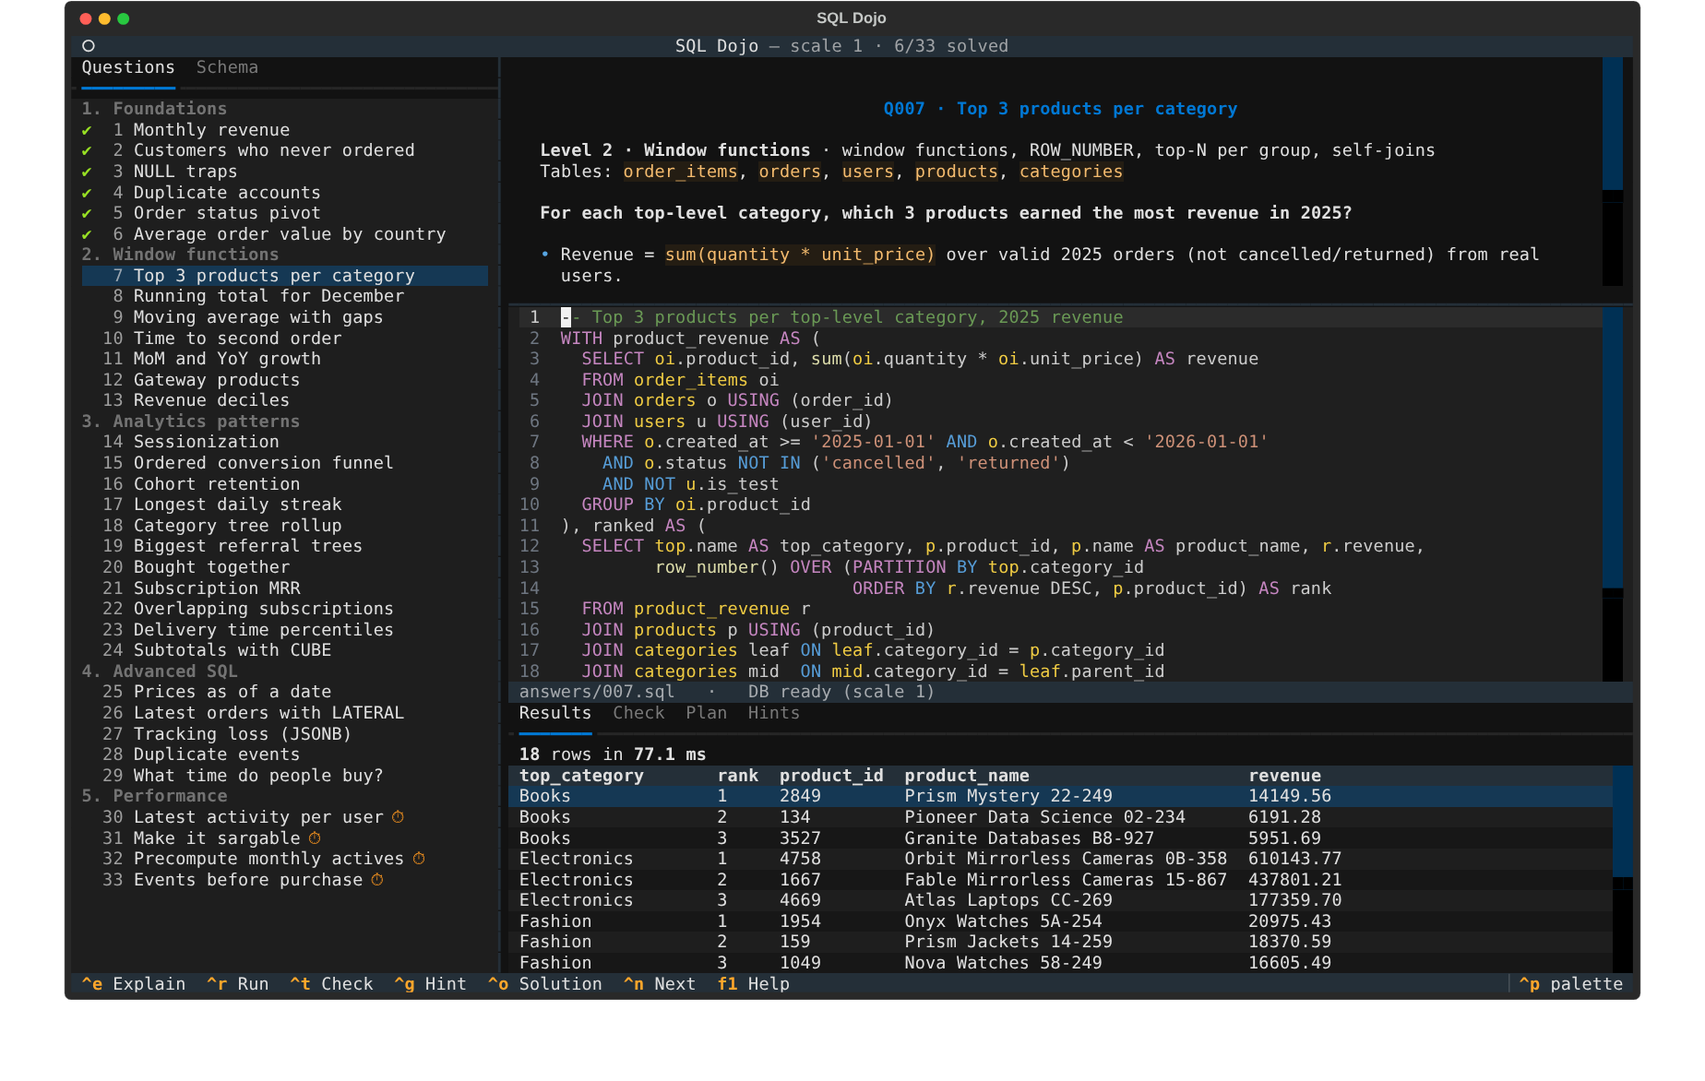
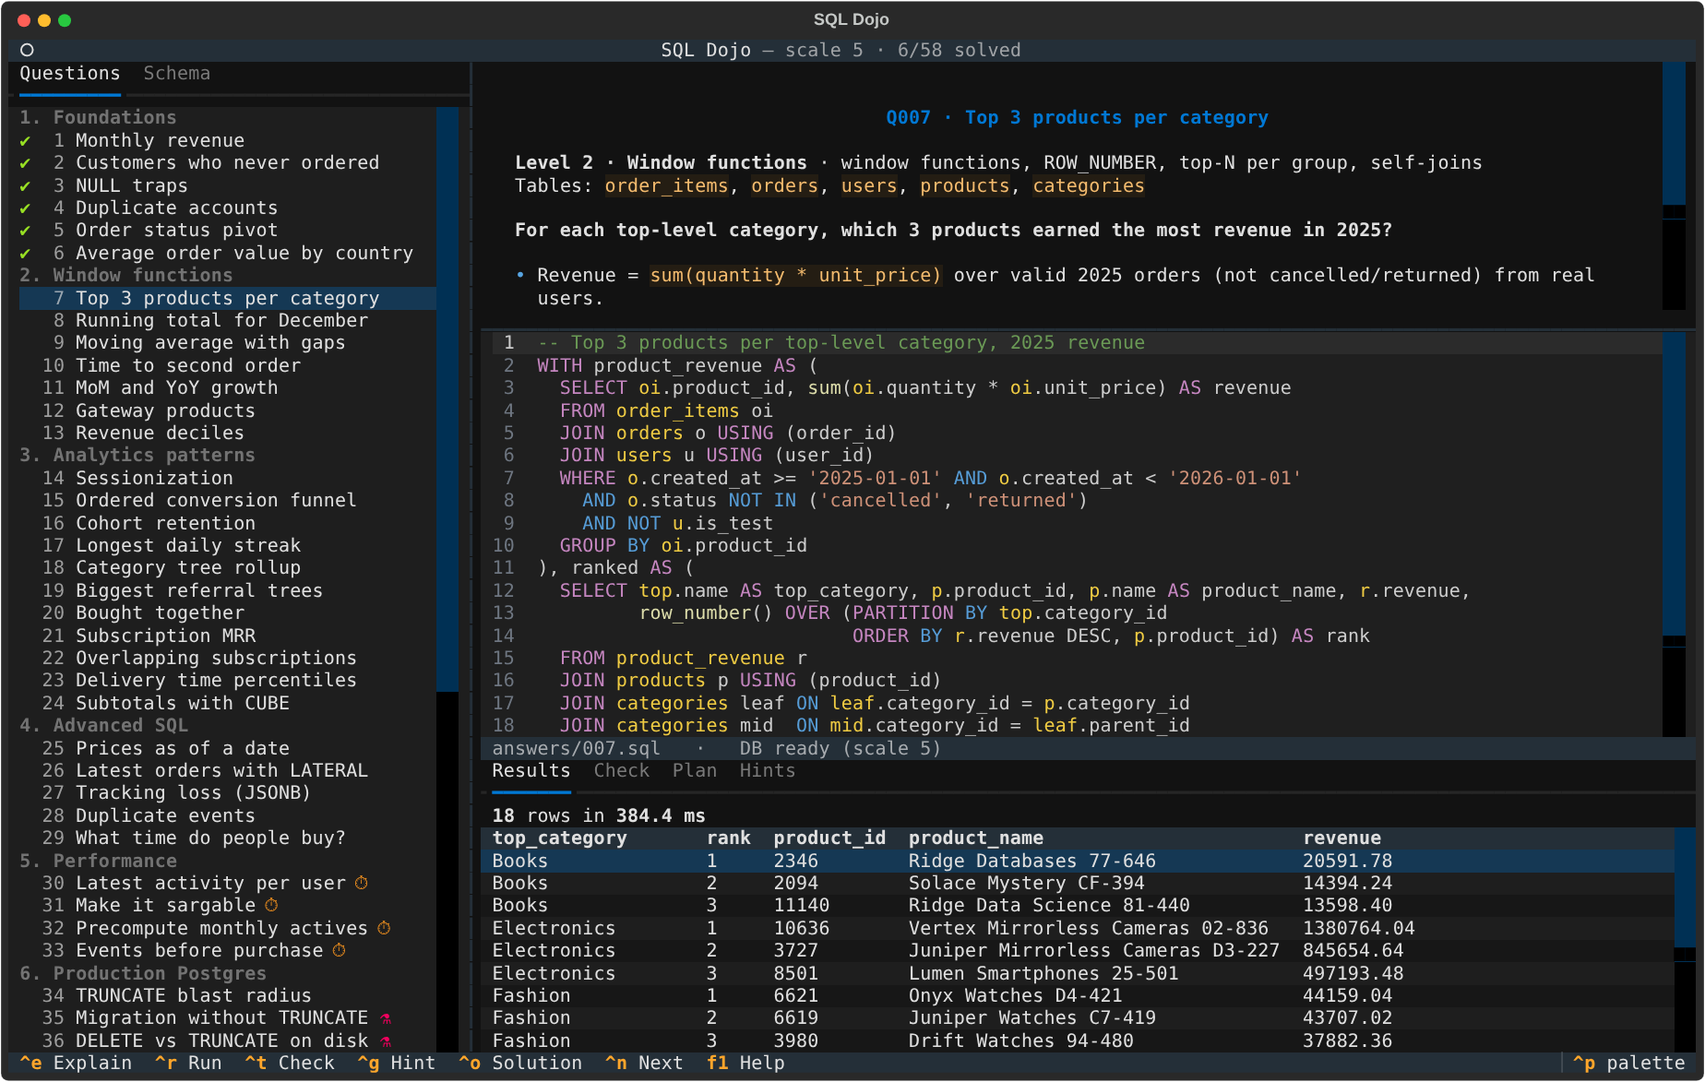
Prepare the README for a public launch
- Lead with what it is now: 58 graded problems in nine levels, who it's
  for, and the labs (Levels 6-9) above the fold; refreshed screenshot.
- Requirements: Python 3.10+ (the pinned Textual and DuckDB need it;
  the plain CLI still runs on 3.8), Docker with compose, no local psql.
  Notes for macOS (built-in python3 is 3.9), Linux (docker group) and
  Windows (untested; WSL 2). Real clone URL, first-run disk cost.
- The launcher now says "needs Python 3.10 or newer" up front instead
  of failing inside pip on older Pythons.
- Fixes: Postgres 17 (not 16) for DOJO_PSQL, start/show in the CLI
  list, Ctrl+Q in the keys, DOJO_PORT via .env, USE pg after the DuckDB
  ATTACH, "Level 6 is mostly labs", a legend for the level icons.
- Daily issue section moved down and explains it needs your own copy;
  CI skips pushes that only touch answers/.
- CONTRIBUTING examples use free ids (059, 060).

Claude-Session: https://claude.ai/code/session_019QXettip28uDUc6TEEsQhe

diff --git a/sqldojo/cli.py b/sqldojo/cli.py
@@ -502,7 +502,7 @@ def build_parser() -> argparse.ArgumentParser:
     sp.add_argument("-y", "--yes", action="store_true")
     sp = add("lab-reset", cmd_lab_reset, "rebuild a lab's objects (Levels 6+)")
     sp.add_argument("question")
-    sp = add("lab-step", cmd_lab_step, "run one step of a pipeline lab, e.g. batch_1 (Level 7)")
+    sp = add("lab-step", cmd_lab_step, "run one step of a lab's checker, e.g. batch_1 (Levels 7 and 9)")
     sp.add_argument("question")
     sp.add_argument("step")
     sp = add("reset", cmd_reset, "drop indexes/views/tables you created")

diff --git a/README.md b/README.md
@@ -1,10 +1,16 @@
 # SQL Dojo
 
-**Learn SQL in depth by solving real analytics problems against millions of rows, on your own machine.**
+**Graded SQL practice on millions of rows, on your own machine: from `GROUP BY` to query tuning,
+migrations, pipelines and race conditions.**
 
-SQL Dojo gives you a realistic, messy e-commerce warehouse in a local Postgres (5.8M events at the
-default size, 58M if you want), a curriculum of graded questions from `GROUP BY` to query tuning,
-and a terminal IDE to work through them. Open it, and it picks up where you left off.
+SQL Dojo is 58 graded SQL problems in nine levels. You solve them in a terminal IDE against a local
+Postgres loaded with a realistic, messy e-commerce dataset (5.8M events at the default size, 58M if
+you want). It starts with joins and window functions, then moves on to slow queries with a time
+target, safe migrations, idempotent loads, a DuckDB data lake and code that runs in four sessions
+at once.
+
+It's not a first SQL course: you should be comfortable with `SELECT`, `WHERE` and `JOIN`. There's
+no account to create, and your work stays on your machine.
 
 ![The SQL Dojo terminal IDE](docs/screenshot.png)
 
@@ -12,26 +18,45 @@ and a terminal IDE to work through them. Open it, and it picks up where you left
   history, orders, a clickstream, reviews and subscriptions. It has growth, seasonality, long tails,
   time zones, and deliberate dirt: duplicates, NULLs, bots, lost events.
   [See the schema →](docs/SCHEMA.md)
-- **Graded answers.** Your result set is compared with a reference answer, row by row. When it's
-  wrong you see which rows are missing or extra.
+- **Graded answers.** For query questions, your result set is compared with a reference answer,
+  row by row. When it's wrong you see which rows are missing or extra.
 - **Performance questions** come with a slow query and a time target. Index it, rewrite it or
   precompute it until it's fast enough. That's where large data really teaches you something.
+- **Labs that check what you did.** From Level 6, many answers aren't a result set. The checker
+  runs your migration as a restricted role and rolls it back, replays your load script twice per
+  batch to prove retries are harmless, or runs your code in four sessions at once to catch lost
+  updates and deadlocks.
 - **Explanations.** Every reference solution explains the *why*: the trap, the alternative
   approaches, what the planner does.
-- **Everything runs locally.** Docker plus Python 3.8+. The data is generated inside Postgres in
-  about a minute: no downloads, deterministic, any size you like.
+- **Everything runs locally.** Docker and Python 3.10+. The data is generated inside Postgres in
+  about a minute: no dataset to download, deterministic, any size you like.
 
 ## Quick start
 
+You need Docker (running, with `docker compose`) and Python 3.10 or newer. You don't need Postgres
+or psql on your machine.
+
 ```bash
-git clone <this repo> sql-dojo && cd sql-dojo
+git clone https://github.com/tjb/sql-dojo.git && cd sql-dojo
 ./dojo
 ```
 
-The first run installs the terminal UI (and DuckDB, for Level 8) into `./.venv`, starts Postgres 17 in Docker and generates
-the dataset (pick a scale; 1 is a good start). Bigger scales need free space *inside Docker*: about
-12 GB for scale 10. Docker Desktop has its own disk limit, separate from your computer's free space
-(*Settings → Resources → Advanced*); `./dojo` checks before generating. Then:
+The first run installs the terminal UI (and DuckDB, for Level 8) into `./.venv`, starts Postgres 17
+in Docker and generates the dataset. Pick a scale: 1 is a good start. The whole first run then
+takes a few minutes and needs about 3 GB of free disk (the Postgres image, the data and temporary
+space while generating). Bigger scales need free space *inside Docker*: about 12 GB for scale 10. Docker
+Desktop has its own disk limit, separate from your computer's free space (*Settings → Resources →
+Advanced*); `./dojo` checks before generating.
+
+- **macOS:** the built-in `python3` is 3.9, which is too old for the terminal UI. Install a newer
+  one (`brew install python`, or python.org) and run the first launch with it, for example
+  `python3.13 dojo`. After that, `./dojo` uses `./.venv`.
+- **Linux:** your user must be able to run `docker` without `sudo`. Otherwise `./dojo` reports that
+  Docker isn't running.
+- **Windows:** untested. Native Windows won't work; WSL 2 with Docker Desktop's WSL integration
+  should. Clone inside WSL (`~/sql-dojo`, not `/mnt/c/...`).
+
+In the IDE:
 
 | Key | |
 |---|---|
@@ -44,11 +69,17 @@ the dataset (pick a scale; 1 is a good start). Bigger scales need free space *in
 | `Esc` | Cancel a running query |
 | `Ctrl+P` | Command palette: start/regenerate the database, reset indexes, explain without running, ... |
 | `F1` | Help |
+| `Ctrl+Q` | Quit |
+
+**Rather use your own editor or SQL client?** Answers are plain files (`answers/007.sql`): edit
+them anywhere and grade them with `./dojo check 7`. See [the plain CLI](#the-plain-cli) for the
+commands and how to connect your own client.
 
 **It picks up where you left off.** Each launch reopens the question you were on, with your
 draft (answers autosave to `answers/NNN.sql`). If you'd finished it, you get the next unsolved
 question instead. `./dojo today` does the same from the shell. Your progress (attempts, hints,
-solve dates, best times) is in `answers/progress.json`. Commit `answers/`: it's your SQL portfolio.
+solve dates, best times) is in `answers/progress.json`. To keep your answers on GitHub, commit
+`answers/` and push it to a repo of your own (a fork, or a private copy): it's your SQL portfolio.
 
 For performance questions, open a second terminal with `./dojo psql` to create indexes or
 materialized views, then check again.
@@ -67,69 +98,58 @@ materialized views, then check again.
 | **8 · Lake & columnar** 🦆 | 47 Query the landing zone · 48 CSV to partitioned Parquet · 49 Row store vs column store · 50 Partition pruning · 51 Sort for zone maps · 52 Schema drift · 53 Overwrite one partition |
 | **9 · Events & concurrency** ⚗ | 54 An audit trail · 55 A rollup that keeps itself up to date · 56 An idempotent consumer · 57 A job queue with SKIP LOCKED · 58 Concurrent transfers |
 
-Along the way: join fan-out, anti-joins, three-valued logic, `FILTER`, window frames, gap filling,
-gaps-and-islands, recursive CTEs, closure tables, `LATERAL`, `GROUPING SETS`, as-of joins, interval
-overlap, JSONB, time zones, B-tree vs BRIN, sargability, composite index order, materialized views,
-and reading `EXPLAIN ANALYZE`.
+⏱ performance questions with a time target · ⚗ labs: the checker inspects your database ·
+🦆 runs in DuckDB
 
-**Level 6 is labs** (⚗) about running Postgres in production rather than querying it. Instead of
-comparing a result set, the checker inspects what you did to the database:
-- **Script labs** run your migration as a restricted role inside a transaction, inspect the result
-  and roll back. Example: rewrite a migration that uses `TRUNCATE` for a role that isn't allowed to.
-- **State labs** let you change the database however you like (the editor runs any statements),
-  then verify things like file nodes, sizes, role settings and HOT-update ratios.
+Levels 1–5 cover join fan-out, anti-joins, three-valued logic, `FILTER`, window frames, gap
+filling, gaps-and-islands, recursive CTEs, closure tables, `LATERAL`, `GROUPING SETS`, as-of joins,
+interval overlap, JSONB, time zones, B-tree vs BRIN, sargability, composite index order,
+materialized views, and reading `EXPLAIN ANALYZE`.
 
-They cover `TRUNCATE` vs `DELETE` (privileges, locks, MVCC, what happens on disk), foreign-key
-cascades, lock queues and `lock_timeout`, role inheritance, VACUUM, fillfactor and HOT updates.
+**Levels 6–9 are mostly labs.** Instead of comparing a result set, the checker inspects what you
+did to the database:
 
-**Level 7 is data engineering in SQL.** It adds *pipeline labs*: your answer is a load script, and
-the checker plays the outside world. It resets the lab, lands batch 1, runs your load **twice**
-(retries must be harmless), lands batch 2, runs it twice again, and so on, then compares your
-tables with the truth. You build a star schema, bulk-load a messy CSV with `COPY`, sync a
-supplier catalogue with `MERGE` (soft deletes included), keep a type-2 slowly changing
-dimension, maintain an incremental rollup while late data arrives, and manage retention with
-partitions. While developing, run the steps yourself: *Lab step* in the command palette, or
-`./dojo lab-step 45 batch_1`.
+- **6 · Production Postgres.** Your migration runs as a restricted role inside a transaction that
+  is rolled back after checking: for example, rewrite a migration that uses `TRUNCATE` for a role
+  that isn't allowed to. Other labs let you change the database however you like, then check file
+  nodes, sizes, role settings and HOT-update ratios. They cover `TRUNCATE` vs `DELETE` (privileges,
+  locks, MVCC, what happens on disk), lock queues and `lock_timeout`, role inheritance, VACUUM and
+  fillfactor.
+- **7 · Modeling & ELT.** Your answer is a load script, and the checker plays the outside world.
+  It resets the lab, lands batch 1, runs your load **twice** (retries must be harmless), lands
+  batch 2, and so on, then compares your tables with the truth. You build a star schema, load a
+  messy CSV with `COPY`, sync a catalog with `MERGE` and soft deletes, keep a type-2 slowly changing
+  dimension, handle late-arriving data and manage retention with partitions.
+- **8 · Lake & columnar.** `./dojo lake` exports the dataset as files: a gzipped CSV per day and a
+  partner's JSON feed whose schema drifts. Your queries run in [DuckDB](https://duckdb.org),
+  straight over the files. You build a Parquet silver layer and see why columnar formats win at
+  analytics (the same MAU query: seconds in Postgres, milliseconds here). The grader counts **how
+  many files your query opens**, so partition pruning is graded for real. The lake lives on your
+  disk, not inside Docker: about 0.1 GB per unit of scale.
+- **9 · Events & concurrency.** Four of the five labs run your code in **four sessions at once**.
+  Code that is correct one call at a time breaks there, and the checks show how: lost updates,
+  double-processed jobs, a wallet at −50.84, `deadlock detected`. You write an audit trail that
+  even catches `TRUNCATE`, a rollup that keeps itself up to date, an idempotent consumer for an
+  at-least-once broker, a `SKIP LOCKED` job queue, and transfers that neither overdraw nor
+  deadlock.
 
-**Level 8 leaves Postgres for the data lake.** `./dojo lake` (or opening a Level 8 question)
-exports the dataset as files into `lake/raw/`: one gzipped CSV per day, a partner's JSON feed,
-dimension tables. Your queries then run in [DuckDB](https://duckdb.org), in-process and straight
-over the files. You build a Parquet silver layer, then see why columnar formats win at analytics
-(the same MAU query: seconds in Postgres, milliseconds here) and why file layout matters. The
-grader also counts **how many files your query opens**, so partition pruning is graded for real.
-You also handle schema drift, sort data for zone maps, and rewrite one partition without
-touching the others, which is the gap Iceberg and Delta Lake exist to close. The lake lives on
-your disk (not inside Docker): about 0.1 GB per unit of scale for raw, plus whatever you build.
-
-**Level 9 is about many things happening at once.** The checker opens **several sessions in
-parallel** against your code: four checkout services bumping the same counters, four consumers
-receiving the same messages, four workers pulling from one queue, four payment services moving
-money between the same wallets. Code that is correct one call at a time breaks here, and the
-checks show how: lost updates, double-processed jobs, a wallet at −50.84, `deadlock detected`.
-You write triggers (an audit trail that even catches `TRUNCATE`, a self-maintaining rollup), an
-idempotent message consumer for an at-least-once broker (dedupe tables, versioned updates, the
-transactional outbox), a job queue with `FOR UPDATE SKIP LOCKED`, and transfers that neither
-overdraw nor deadlock. Run the concurrent step yourself with `./dojo lab-step 57 worker`.
+While you work on a Level 7 or 9 lab, you can run the checker's steps yourself: *Lab step* in the
+command palette, or `./dojo lab-step 45 batch_1`.
 
 Adding your own questions takes a markdown file and a SQL file: see [CONTRIBUTING.md](CONTRIBUTING.md).
 
-## Optional: a daily question by email
-
-Off by default. If you'd like a nudge, the [`Daily SQL question`](.github/workflows/daily-question.yml)
-workflow can open one GitHub issue a day with the next question you haven't solved or been sent
-yet (the problem, collapsible hints, the commands to start) and @mention you, so GitHub emails it.
-To switch it on, uncomment the two `schedule` lines in that file (the time is UTC) and push to your
-default branch. *Actions → Daily SQL question → Run workflow* sends one immediately. Each run
-also closes the issues of questions you've solved, based on the `answers/progress.json` you've pushed.
-
 ## The plain CLI
 
-Everything the TUI does is also a command, using only Python's standard library:
+Everything the TUI does is also a command. The commands use only Python's standard library (3.8 is
+enough). Level 8 is the exception: it needs Python 3.10 or newer and installs DuckDB into `./.venv`
+the first time it needs it:
 
 ```
 ./dojo up [--scale 1]       start Postgres; generate data on first run
 ./dojo generate --scale 10  regenerate at another size (bigger = more interesting plans)
 ./dojo today                pick up where you left off (or the next unsolved question)
+./dojo start 7              open question 7 and create answers/007.sql
+./dojo show 7               print a question
 ./dojo run 7                run your answer, print the result
 ./dojo check 7              grade it
 ./dojo hint 7               reveal one more hint
@@ -139,16 +159,20 @@ Everything the TUI does is also a command, using only Python's standard library:
 ./dojo psql                 interactive psql
 ./dojo reset                drop the indexes, views and tables you created
 ./dojo lab-reset 36         rebuild a lab's objects and start it over
-./dojo lab-step 45 batch_1  pipeline labs: land the next batch of data by hand
+./dojo lab-step 45 batch_1  run one step of a lab's checker by hand (or: lab-step 57 worker)
 ./dojo lake [--rebuild]     Level 8: export the dataset into lake/ for DuckDB
 ./dojo down | destroy       stop the container / delete it and its data
 ```
 
 Prefer your own client (DBeaver, DataGrip, TablePlus, VS Code)? Connect to
-`postgresql://dojo:dojo@localhost:5433/dojo` (port 5433, so it won't clash with a local Postgres;
-change it with `DOJO_PORT`). To use a Postgres you run yourself instead of Docker, set
-`DOJO_PSQL="psql postgresql://user:pass@host/db"` (Postgres 16 or newer, as a superuser) and run
-`./dojo generate`.
+`postgresql://dojo:dojo@localhost:5433/dojo`. It uses port 5433 so it won't clash with a local
+Postgres. If 5433 is taken, put `DOJO_PORT=5434` in a `.env` file next to `docker-compose.yml`, so
+every command uses the same port. The dojo itself talks to Postgres through Docker, so only your
+own client cares about the port.
+
+To use a Postgres you run yourself instead of Docker, set
+`DOJO_PSQL="psql postgresql://user:pass@host/db"` (Postgres 17 or newer, as a superuser, with the
+contrib extensions) and run `./dojo generate`.
 
 ## How grading works
 
@@ -165,10 +189,23 @@ change it with `DOJO_PORT`). To use a Postgres you run yourself instead of Docke
   schemas (`lab`, `partner`, `mart`, `stream`, ...) and a few roles (`app_migrator`, `analyst`,
   ...). Regenerating the data rebuilds them on demand.
 
+## Optional: a daily question as a GitHub issue
+
+Off by default, and it runs in your own copy of the repo on GitHub. In a fork, first enable
+workflows (*Actions* tab) and Issues (*Settings → General → Features*).
+
+The [`Daily SQL question`](.github/workflows/daily-question.yml) workflow can open one GitHub issue
+a day with the next question you haven't solved or been sent yet (the problem, collapsible hints,
+the commands to start) and @mention you, so GitHub emails it. To switch it on, uncomment the two
+`schedule` lines in that file (the time is UTC) and push to your default branch. *Actions → Daily
+SQL question → Run workflow* sends one immediately. Each run also closes the issues of questions
+you've solved, based on the `answers/progress.json` you've pushed.
+
 ## Other places to practise
 
-Nothing else I know of combines big local data with graded questions and a daily email, but these
-are excellent complements:
+Most SQL practice runs on small tables in a browser and checks one result set. SQL Dojo is for the
+step after that: data big enough that the query plan matters, and labs that check what your code
+does to a database. I haven't found another tool that does both. These go well with it:
 
 - **[DataLemur](https://datalemur.com)**, **[StrataScratch](https://www.stratascratch.com)**,
   **[LeetCode SQL 50](https://leetcode.com/studyplan/top-sql-50/)**: interview-style questions in
@@ -176,15 +213,19 @@ are excellent complements:
 - **[pgexercises.com](https://pgexercises.com)**: Postgres-specific exercises.
 - **[Use The Index, Luke](https://use-the-index-luke.com)**: the best free book on indexing and
   query performance. Read it alongside Level 5.
+- **[PostgreSQL: Concurrency Control](https://www.postgresql.org/docs/current/mvcc.html)**: MVCC,
+  isolation levels and explicit locking, from the manual. Read it alongside Levels 6 and 9.
 - **[BigQuery public datasets](https://cloud.google.com/bigquery/public-data)**: real big data
   (GitHub, Stack Overflow, NYC taxis), 1 TB of free queries a month.
 - **[DuckDB](https://duckdb.org)** (used in Level 8): also try the Postgres-level questions in it
-  (`ATTACH 'host=localhost port=5433 dbname=dojo user=dojo password=dojo' AS pg (TYPE postgres);`).
+  (`ATTACH 'host=localhost port=5433 dbname=dojo user=dojo password=dojo' AS pg (TYPE postgres);
+  USE pg;`). DuckDB downloads its postgres extension the first time.
 
-## Ideas for more
+## What could come next
 
 More labs: `SERIALIZABLE` and write skew (two on-call engineers both going off call), sequence
 gaps and the outbox relay that skips rows committed out of order, `CREATE INDEX CONCURRENTLY` and
 invalid indexes, `NOT VALID` constraints, change data capture from the WAL with logical decoding
-(needs `wal_level=logical`), replication lag, `pg_stat_statements` triage. Adding one is a
-`question.md`, a `setup.sql`, a `check.sql` and a solution: see [CONTRIBUTING.md](CONTRIBUTING.md).
+(needs `wal_level=logical`), replication lag, `pg_stat_statements` triage. Want one of these, or
+have a better idea? Open an issue. Adding one yourself is a `question.md`, a `setup.sql`, a
+`check.sql` and a solution: see [CONTRIBUTING.md](CONTRIBUTING.md).

diff --git a/CONTRIBUTING.md b/CONTRIBUTING.md
@@ -3,7 +3,7 @@
 A question is a directory under `questions/` named `NNN-short-slug/`:
 
 ```
-questions/034-my-question/
+questions/059-my-question/
 ├── question.md     the problem (front matter + markdown + hints)
 ├── solution.sql    the reference solution, with an explanation in comments
 └── expected.sql    optional: grade against this query instead of solution.sql
@@ -13,7 +13,7 @@ questions/034-my-question/
 
 ```markdown
 ---
-id: 34
+id: 59
 title: Short title (fits the sidebar, under ~32 characters)
 level: 3
 topics: comma, separated, concepts
@@ -48,14 +48,14 @@ Put the original slow (but correct) query in `expected.sql`. It's what grading c
 so it must finish in reasonable time *without* any extra indexes. `solution.sql` lists the setup
 (`CREATE INDEX ...`) in comments, followed by the fast query.
 
-## Labs (`kind: script` / `kind: state`)
+## Labs (`kind: script` / `state` / `pipeline`)
 
 Labs are graded by inspecting the database instead of comparing a result:
 
 ```
-questions/035-my-lab/
+questions/060-my-lab/
 ├── question.md     front matter adds `kind: script` (and `run_as: some_role`) or `kind: state`
-├── setup.sql       idempotent: (re)creates the lab's objects in schema `lab`, plus any roles
+├── setup.sql       idempotent: (re)creates the lab's objects in its own schema, plus any roles
 ├── check.sql       returns rows (check text, ok boolean, detail text). All ok = solved
 └── solution.sql    a script that passes the checks, with the explanation in comments
 ```

diff --git a/answers/README.md b/answers/README.md
@@ -1,5 +1,6 @@
 # Your answers
 
 `./dojo` saves your work here: one `NNN.sql` per question plus `progress.json` (attempts, hints
-used, when you solved it, your best time). Commit this folder. It's your SQL portfolio, and the
-daily-question workflow reads `progress.json` to skip questions you've already solved.
+used, when you solved it, your best time). Commit this folder in your own copy of the repo. It's
+your SQL portfolio, and the daily-question workflow reads `progress.json` to skip questions you've
+already solved.
